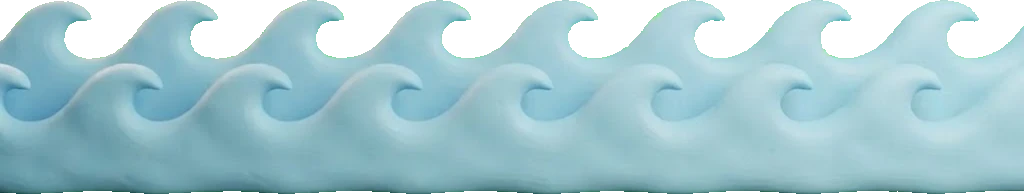
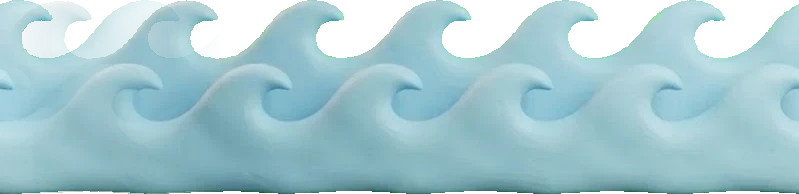
fix(math): Fyld Båden — boat sits level, bobs instead of rocking; waves tile seamlessly at true shape
- The batch-G render leans ~2° nose-down (keel measured); with the ±1.5° rock and a tall wheelhouse
  it read as about to tip over (owner). The IMAGE is counter-rotated 1.8° (not the container — that
  would bend cargo drag offsets) and the idle motion is a 3px vertical bob.
- Waves were one render stretched across the screen, squashed to ~1/3 of their height (owner:
  stretched and distorted). makeSeamlessX cross-fades each strip's ends (alpha-weighted, so the keyed
  screen's green can't ghost in) and the bands repeat at natural proportions.

Rung 1+2: gesture/visibility probe 12/12 on Chrome and WebKit.

diff --git a/src/components/math/boat/Boat.tsx b/src/components/math/boat/Boat.tsx
@@ -22,6 +22,9 @@ import splashArt from '../../../assets/games/boat/splash.webp'
 // Motion: transform/opacity strings with cubic-bezier easing only (gpuMotion.test.ts) — GPU-composited in
 // Safari 17, where framer shorthands run on the main thread and springs become uncomposited `linear()`.
 
+/** Static counter-rotation that levels the batch-G boat renders (see the image below). */
+const BOAT_LEVEL_DEG = -1.8
+
 /** Landing overshoot as a cubic-bezier (the curve `draggableStyle` uses for its lift). */
 const LAND_EASE = [0.34, 1.56, 0.64, 1] as const
 
@@ -223,7 +226,10 @@ const Boat: React.FC<BoatProps> = ({
       // `--bw` is the boat's width; every size inside derives from it.
       style={{ position: 'relative', width: 'var(--bw)', aspectRatio: String(BOAT_ASPECT) }}
     >
-      <Box component="img" src={L.art} alt="" draggable={false} sx={{ position: 'absolute', inset: 0, width: '100%', height: '100%', display: 'block', userSelect: 'none', pointerEvents: 'none' }} />
+      {/* The render leans ~2° nose-down (keel measured 0.971 → 0.996 of its height from x 0.3 → 0.7), which
+          with a tall wheelhouse read as "about to tip over" (owner). Only the IMAGE is counter-rotated —
+          rotating the container would bend every drag offset of the cargo inside it. */}
+      <Box component="img" src={L.art} alt="" draggable={false} sx={{ position: 'absolute', inset: 0, width: '100%', height: '100%', display: 'block', userSelect: 'none', pointerEvents: 'none', transform: `rotate(${BOAT_LEVEL_DEG}deg)`, transformOrigin: '50% 80%' }} />
 
       {/* The sail — blank until a correct send paints the number on it (the reveal IS the lesson). */}
       <Box sx={{ position: 'absolute', left: pct(G.sail.left), top: pct(G.sail.top), width: pct(G.sail.width), height: pct(G.sail.height), display: 'flex', alignItems: 'center', justifyContent: 'center', pointerEvents: 'none' }}>

diff --git a/src/components/math/FyldBaadenGame.tsx b/src/components/math/FyldBaadenGame.tsx
@@ -21,7 +21,7 @@ import { mascotBus } from '../../services/mascotBus'
 import { boatLoadedText, fillBoatPrompt } from '../../config/gamePhrases'
 import { BOAT_RECENT_WINDOW, pickBoatNumber } from '../../config/mathProblems'
 import { DWELL_CORRECT } from '../../theme/motion'
-import { idleRock } from '../../theme/idleMotion'
+import { idleFloat } from '../../theme/idleMotion'
 import { DEV } from '../../utils/devHarness'
 import { useOccludeWorld } from '../common/scene/worldOcclusion'
 import {
@@ -348,9 +348,10 @@ const FyldBaadenGame: React.FC = () => {
   const ghost = hint !== null ? ghostFor(hint) : null
   const overDeck = overId === 'deck' && !!activeId?.startsWith('src-')
   const overQuay = overId === 'quay' && !!activeId?.startsWith('deck-')
-  // The moored boat stops rocking while ANYTHING is dragged: a rotating ancestor bends the drag offset,
-  // and a fish dragged off the deck drifted ~12px from the pointer (real-mouse probe, 2026-10-14).
-  const rock = idleRock(reduce || phase === 'sailing' || phase === 'arriving' || activeId !== null)
+  // The moored boat BOBS (vertical only) — it used to rock ±1.5°, which on a long boat with a tall
+  // wheelhouse read as "about to tip over" (owner, 2026-10-14). It holds still while anything is dragged:
+  // a moving ancestor bends the drag offset (a deck fish drifted ~12px, real-mouse probe).
+  const rock = idleFloat(reduce || phase === 'sailing' || phase === 'arriving' || activeId !== null, { distance: 3, durationS: 3.4 })
 
   // A full `transform` STRING with tween easing, never framer's `x` shorthand: Motion hands `transform`
   // to WAAPI, which Safari 17 runs on the GPU compositor, while `x`/`y`/`scale` tick on the main thread

diff --git a/src/components/math/boat/HarbourScene.tsx b/src/components/math/boat/HarbourScene.tsx
@@ -46,12 +46,14 @@ export const HarbourBackdrop: React.FC<{ reduce: boolean }> = () => (
   />
 )
 
-// The wave renders are not tileable (repeating them showed a seam every ~290px), so each band is ONE
-// render stretched across a strip a little wider than the screen; the drift stays inside that margin.
+// The wave renders are made SEAMLESS in the art pipeline (`makeSeamlessX`: their ends are cross-faded),
+// so each band repeats at its NATURAL proportions. Stretching one render across the screen squashed it
+// to a third of its height (owner: "stretched and distorted"); repeating the raw render showed seams.
 const band = (src: string) => ({
   backgroundImage: `url(${src})`,
-  backgroundRepeat: 'no-repeat',
-  backgroundSize: '100% 100%',
+  backgroundRepeat: 'repeat-x',
+  backgroundSize: 'auto 100%',
+  backgroundPosition: 'left bottom',
 })
 
 export const HarbourFrontWater: React.FC<{ reduce: boolean }> = ({ reduce }) => {
